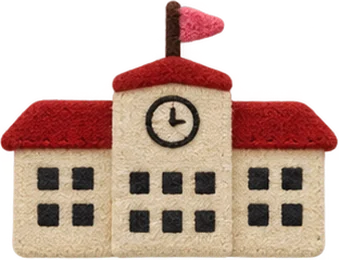
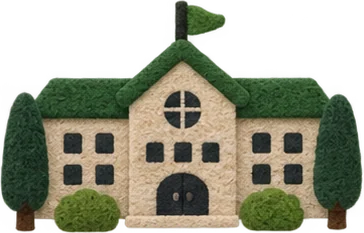
전시 보드: 학교 그림을 '학교 캠퍼스 펠트 아이콘 콜라주' 1행 2열(초록 지붕·양옆 나무)로 바꾸고 더 위로(발끝 563 → 548, 높이 70), 벤치+가로등 조금 작게(62 → 56)

diff --git a/src/features/kiosk-board/board.ts b/src/features/kiosk-board/board.ts
@@ -115,7 +115,7 @@ export function mountBoard(o: BoardOptions): Board {
     segs.forEach(({ p, q, L }) => { const nx = -(q[1] - p[1]) / L, ny = (q[0] - p[0]) / L; for (let t = 4; t < L; t += TICK_STEP) { const x = p[0] + ((q[0] - p[0]) * t) / L, y = p[1] + ((q[1] - p[1]) * t) / L; ticks.push({ at: (acc + t) / tot, el: el('line', { class: 'kb-tick', x1: (x + nx * 5 + ((q[0] - p[0]) / L) * 2).toFixed(1), y1: (y + ny * 5 + ((q[1] - p[1]) / L) * 2).toFixed(1), x2: (x - nx * 8).toFixed(1), y2: (y - ny * 8).toFixed(1) }, edge) }); } acc += L; }); }
   /* 장식(아플리케, 시안 자리 그대로): [종류, x 가운데, y 발끝, 높이] */
   const propsG = el('g', { class: 'kb-props' }, board);
-  const PROP_W: Record<string, number> = { school: 1.3, bench: 1.17 };   /* 그림 가로:세로(기본 0.84 = 집·나무). 학교·벤치+가로등(10-26, '펠트 패치워크' 2행 1열·3행 4~5열)은 가로로 넓다 */
+  const PROP_W: Record<string, number> = { school: 1.56, bench: 1.17 };   /* 그림 가로:세로(기본 0.84 = 집·나무). 학교('학교 캠퍼스 펠트' 1행 2열)·벤치+가로등('펠트 패치워크' 3행 4~5열, 10-26)은 가로로 넓다 */
   const propEls = (c.props || []).map(([kind, x, y, h]) => { const w = +h * (PROP_W[kind] ?? 0.84); return el('image', { class: 'kb-prop', href: `/board/${kind}.webp`, x: (+x - w / 2).toFixed(1), y: (+y - +h).toFixed(1), width: w.toFixed(1), height: h, preserveAspectRatio: 'xMidYMax meet' }, propsG); });
   /* 제목(천 글자) */
   const titleG = el('g', { class: 'kb-title' }, board); const [tx, ty] = c.titleAt || [470, 215];
